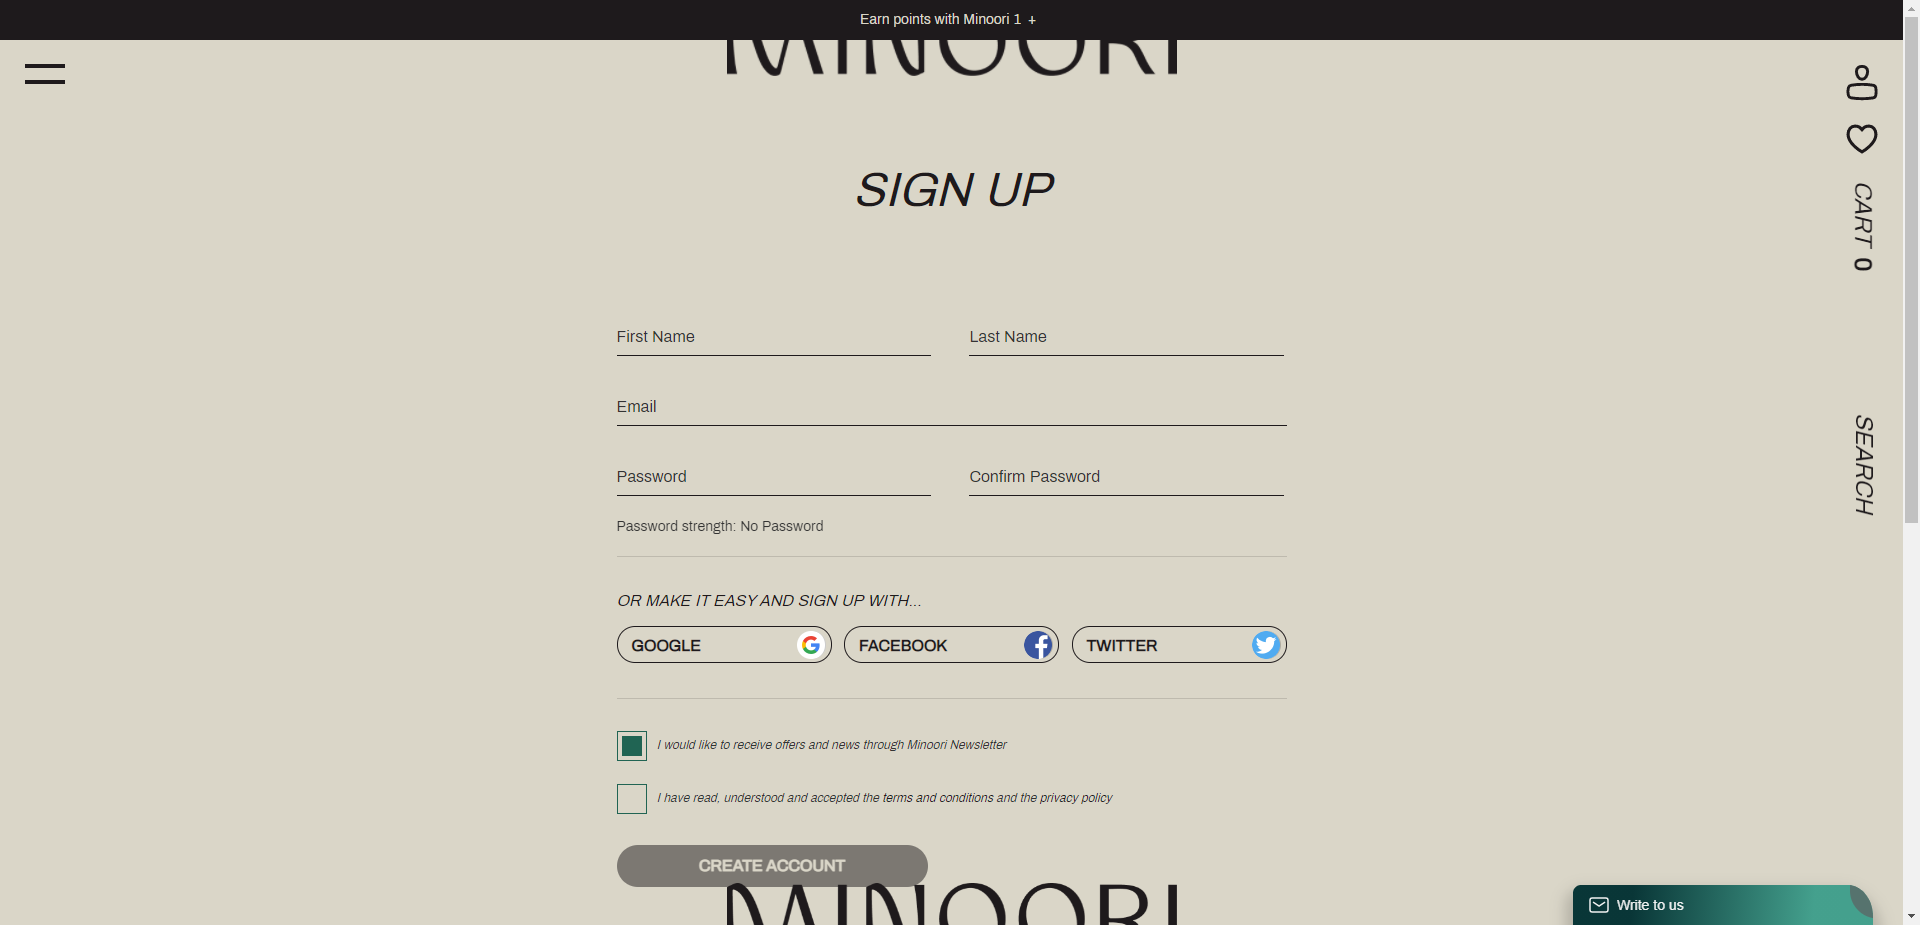
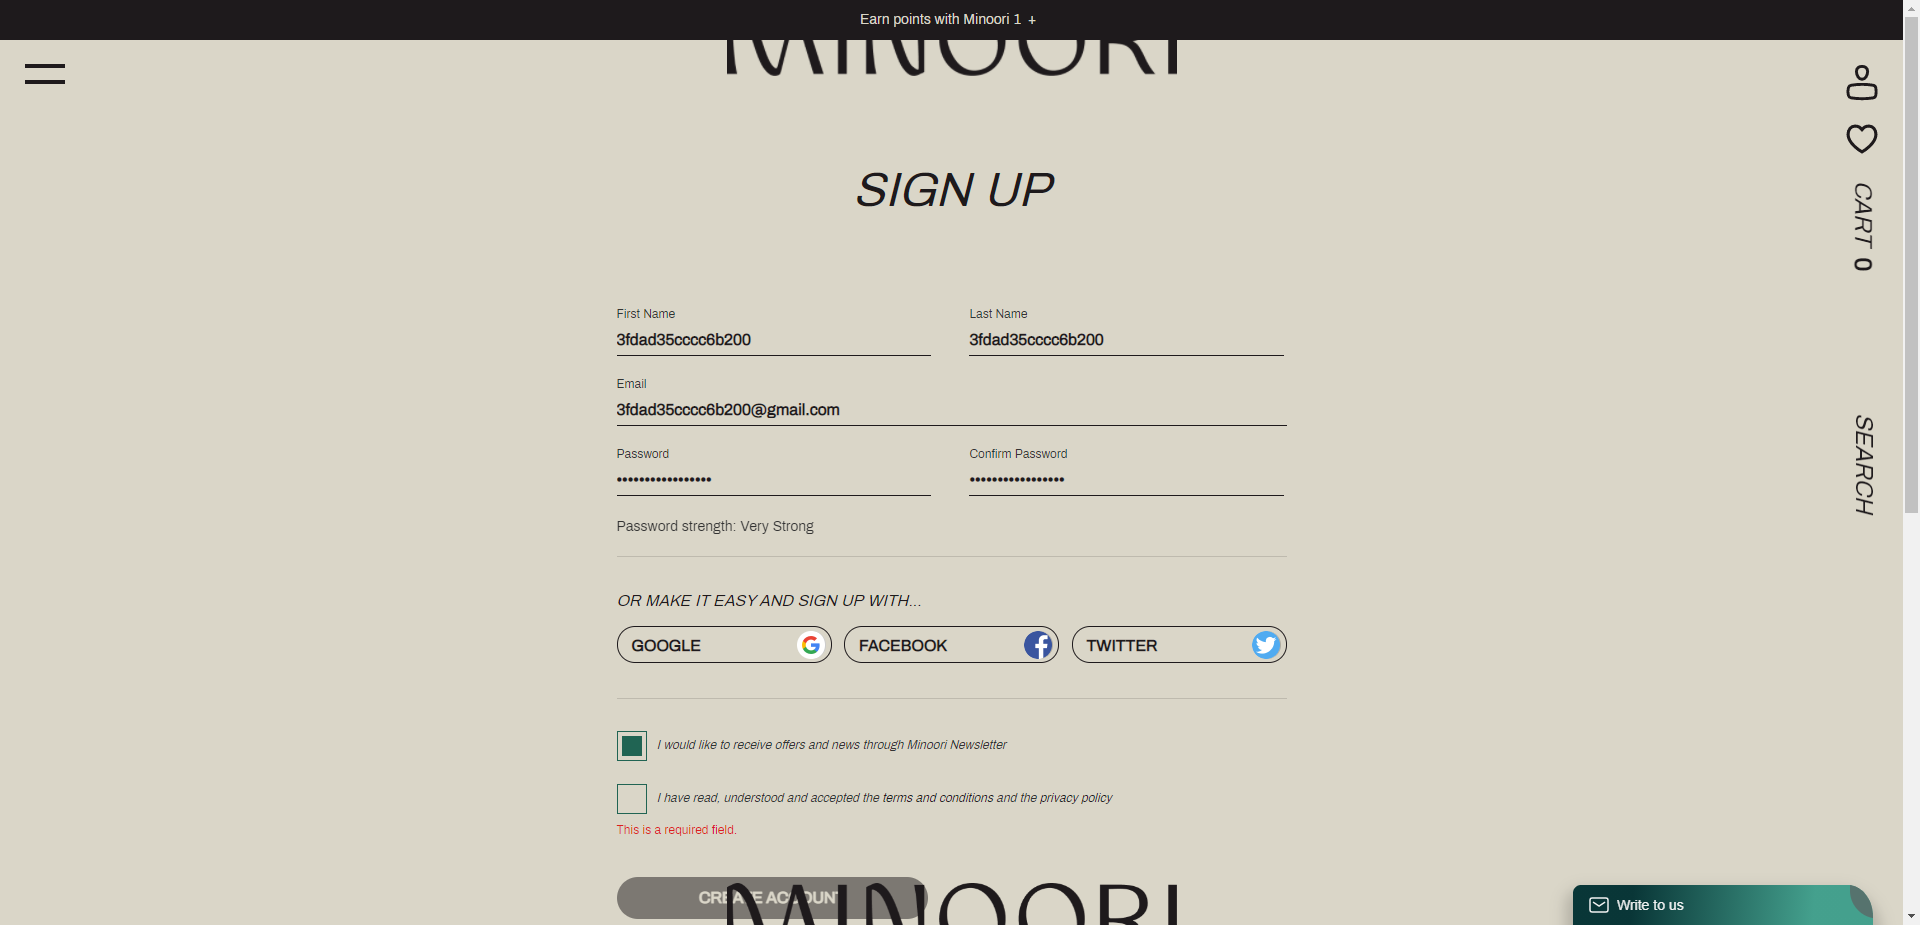
done

diff --git a/src/test/java/com/clear/pages/CreateAccountPage.java b/src/test/java/com/clear/pages/CreateAccountPage.java
@@ -8,6 +8,7 @@ public class CreateAccountPage extends ClearMainPage{
     public CreateAccountPage(WebDriver driver) {
         super(driver);
     }
+    String text = Long.toHexString(Double.doubleToLongBits(Math.random()));
 
     @Step("Is login page is open")
     public void IsCreatePageLoad(){
@@ -22,5 +23,28 @@ public class CreateAccountPage extends ClearMainPage{
 
     @Step("Is Sing up button visible")
     private void IsCreateButtonVisible(){ isDisplayed(By.xpath(Locator.LOCATOR_CREATE_BUTTON),10,"Not visible sing up");}
+
+    @Step("Fill create form")
+    public void FillCreateForm(){
+        IsAllComponentVisible();
+        getElement(By.xpath(Locator.LOCATOR_CREATE_FIRSTNAME),10,"not selected name").sendKeys(text);
+        getElement(By.xpath(Locator.LOCATOR_CREATE_LASTNAME),10,"not selected last name").sendKeys(text);
+        getElement(By.xpath(Locator.LOCATOR_CREATE_MAIL),10,"not selected").sendKeys(text+"@gmail.com");
+        getElement(By.xpath(Locator.LOCATOR_CREATE_PASS),10,"not selected").sendKeys("A"+text);
+        getElement(By.xpath(Locator.LOCATOR_CREATE_CONFPASS),10,"not selected").sendKeys("A"+text);
+        getElement(By.xpath(Locator.LOCATOR_CREATE_POLICE),10,"Not used police").submit();
+        clickOnElement(By.xpath(Locator.LOCATOR_CREATE_CBUTTON),10,"Not cliked");
+    }
+
+
+    @Step("Is all component form visible")
+    private void IsAllComponentVisible(){
+        isDisplayed(By.xpath(Locator.LOCATOR_CREATE_FIRSTNAME),10,"Not visible first name");
+        isDisplayed(By.xpath(Locator.LOCATOR_CREATE_LASTNAME),10,"Not visible lastname");
+        isDisplayed(By.xpath(Locator.LOCATOR_CREATE_MAIL),10,"Not visible mail");
+        isDisplayed(By.xpath(Locator.LOCATOR_CREATE_PASS),10,"Not visible password");
+        isDisplayed(By.xpath(Locator.LOCATOR_CREATE_CONFPASS),10,"Not visible confirm password");
+        isDisplayed(By.xpath(Locator.LOCATOR_CREATE_CBUTTON),10,"Not visible create button");
+    }
 
 }

diff --git a/src/test/java/com/clear/pages/Locator.java b/src/test/java/com/clear/pages/Locator.java
@@ -44,6 +44,13 @@ public class Locator extends ClearMainPage {
     static String LOCATOR_LOGOUT_SINGUP = "//a[contains(text(),'Sign Out')]";
 
     static String LOCATOR_CREATE_BUTTON = "//span[contains(text(),'Sign up')]";
+    static String LOCATOR_CREATE_FIRSTNAME = "//input[@id='firstname']";
+    static String LOCATOR_CREATE_LASTNAME = "//input[@id='lastname']";
+    static String LOCATOR_CREATE_MAIL = "//input[@id='email_address']";
+    static String LOCATOR_CREATE_PASS = "//input[@id='password']";
+    static String LOCATOR_CREATE_CONFPASS = "//input[@id='password-confirmation']";
+    static String LOCATOR_CREATE_CBUTTON = "//button[@class='action submit primary']";
+    static String LOCATOR_CREATE_POLICE = "//input[@id='privacy_policy']";
 
 
 

diff --git a/src/main/java/com/clear/pages/ClearMainPage.java b/src/main/java/com/clear/pages/ClearMainPage.java
@@ -27,7 +27,7 @@ public class ClearMainPage extends MainPages {
     }
 
     public void GetScrinshot (String result) throws IOException {
-        waitingSomeTime(1000);
+        waitingSomeTime(2000);
         File scrFile = ((TakesScreenshot)driver).getScreenshotAs(OutputType.FILE);
         // Now you can do whatever you need to do with it, for example copy somewhere
         FileUtils.copyFile(scrFile, new File("C:\\AutoTests\\"+result));}

diff --git a/src/test/java/com/clear/tests/CreateAccountTest.java b/src/test/java/com/clear/tests/CreateAccountTest.java
@@ -31,7 +31,7 @@ public class CreateAccountTest extends ClearTests{
         homePage.ClickOnAccount();
         createAccount.ClickOnSingUp();
         createAccount.IsCreatePageLoad();
-
+        createAccount.FillCreateForm();
         createAccount.GetScrinshot("Create.png");
     }
 }
